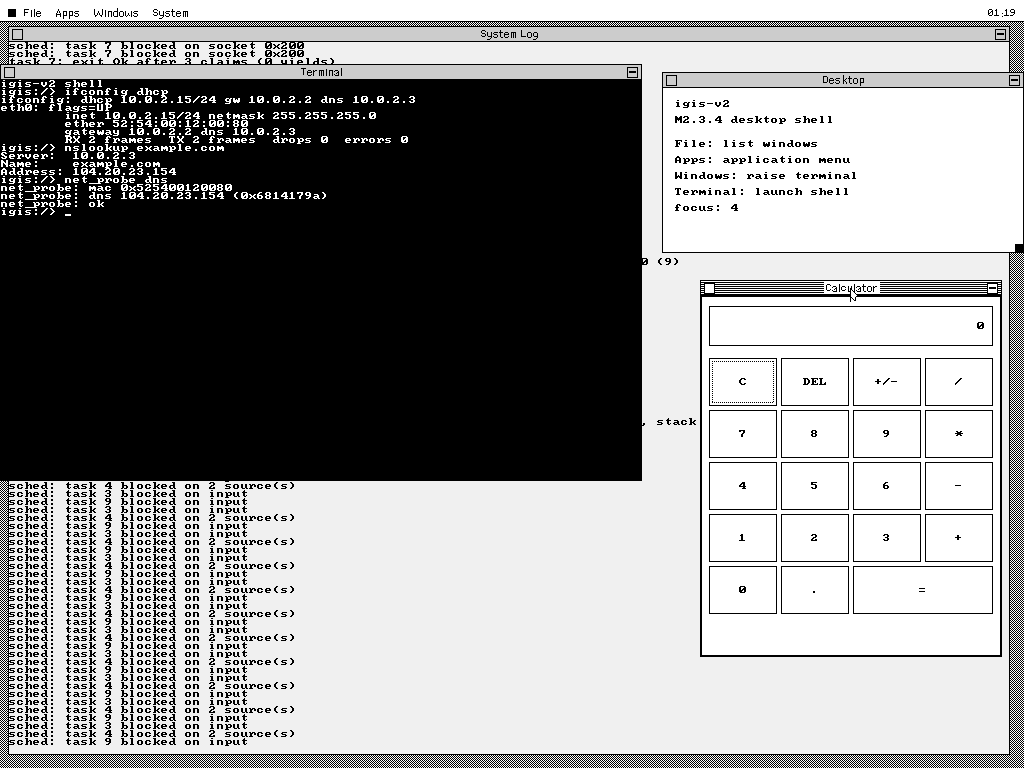
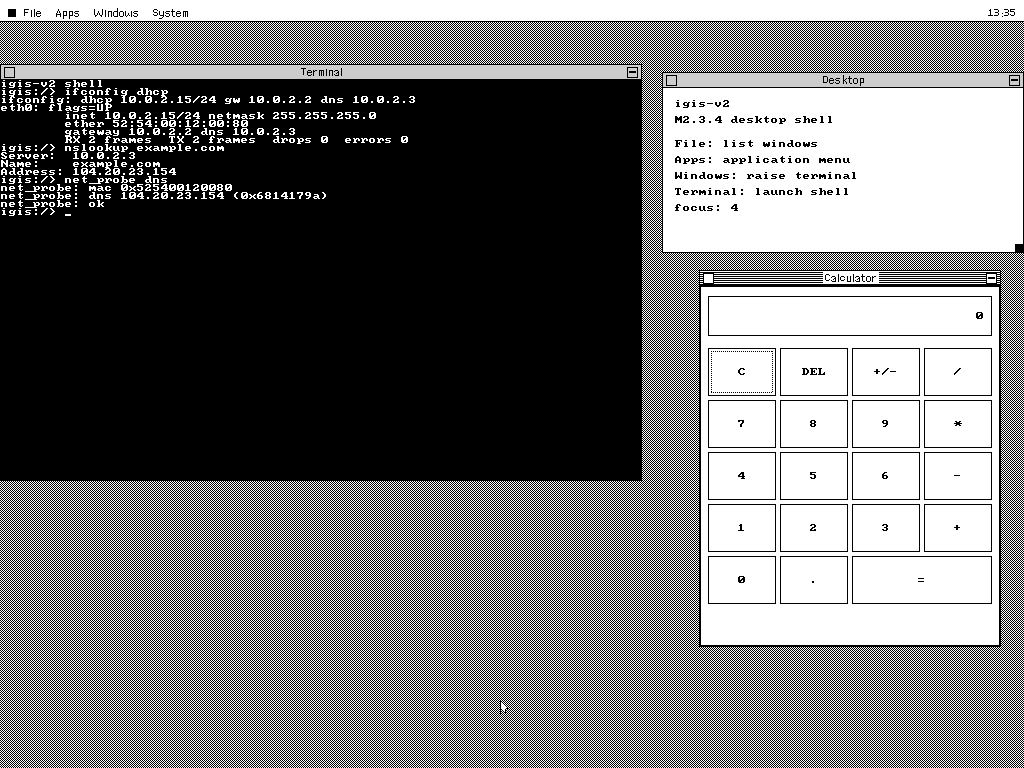
docs: refresh the README screenshots from the current desktop
All seven 1024x768 captures were re-taken on the product image from the M16
tree. The old images showed the full-screen System Log as the background, used
pre-[#Utilities] Apps rows (so a header or the wrong app answered a click), and
carried a stale "M2-M14 / 634 tests" status line.

The harness now derives every frame, close box and hide box from the sample
geometry (content = window_open(x, y) + (1, 16), frame = content + (2, 17)),
computes the Apps rows from the 22-pixel bar and 16-pixel rows (Calculator 1,
Clock 2, Widgets 3, Editor 8, Browser 9, Terminal 11), minimizes the kernel
System Log through its hide box so the background is the service desktop
pattern, parks the pointer in the empty corner before each capture, and keeps
the terminal fully behind the 762x577 Widgets gallery.

Checked without viewing the images: 1024x768, no 0xF0F0F0 log paper, the bar
border, each expected frame border at its computed coordinate, the editor's
four syntax palette colours, the browser's accent selection, and pairwise
distinct captures. README status is now specs 0001-0026 / M2-M16 / 637 host
tests.

Changed region(s): [[0.0, 0.0312, 1.0, 1.0]]

diff --git a/scripts/readme_screenshots_qmp.py b/scripts/readme_screenshots_qmp.py
@@ -2,9 +2,22 @@
 """Compose the README screenshots on the boot desktop, top bar included.
 
 Every image is a full 1024x768 QEMU framebuffer capture with the desktop
-shell's menu bar visible; nothing is cropped.
+shell's menu bar visible; nothing is cropped and nothing is drawn by the
+harness. Window geometry comes from the sample sources, not from constants
+guessed at capture time:
 
-    docs/screenshots/desktop.png   terminal + Desktop panel + Calculator
+    content = window_open(x, y, w, h) + (1, 16)
+    frame   = content - (1, 16) and content + (2, 17)
+    close   = (frame.x + 9, frame.y + 8)          (11x11 box at frame + (4, 3))
+    hide    = (frame.x + frame.w - 10, frame.y + 8) (11x11 box at the right end)
+
+The Apps pull-down opens at `y = 22` (the bar height) with 16-pixel rows, so
+row `i` is clicked at `y = 31 + 16 * i`; the `#` section headers are not
+selectable. The System Log is a full-screen kernel window under everything, so
+the harness minimizes it first (its hide box is free at boot); the uncovered
+area is then the service desktop pattern.
+
+    docs/screenshots/desktop.png   terminal + Calculator + Desktop panel
     docs/screenshots/apps.png      Apps pull-down over that composition
     docs/screenshots/network.png   the terminal network commands
     docs/screenshots/widgets.png   the composed Widgets gallery
@@ -14,8 +27,8 @@ shell's menu bar visible; nothing is cropped.
 
 The terminal runs `ifconfig dhcp`, `nslookup example.com` and `net_probe dns`.
 Widgets needs its `shot` gallery, so it is started from the terminal and the
-terminal is arranged fully behind its 760x560 frame; the terminal is then
-minimized before the single-app captures.
+terminal is arranged fully behind its 762x577 frame; the terminal is then
+closed before the single-app captures, which all launch from Apps.
 
 Usage:
     cargo xtask image
@@ -38,14 +51,37 @@ from tablet_qmp import Qmp, Serial, apps_drive  # noqa: E402
 ROOT = os.path.dirname(os.path.dirname(os.path.abspath(__file__)))
 OUT_DIR = os.path.join(ROOT, "docs", "screenshots")
 
+# The bar is 22 px tall and every pull-down row is 16 px with a 1 px border.
 APPS_LABEL = (64, 10)
-CALCULATOR_ROW = (140, 47)
-CLOCK_ROW = (140, 63)
-EDITOR_ROW = (140, 143)
-BROWSER_ROW = (140, 159)
-TERMINAL_ROW = (140, 191)
+MENU_X = 140
 OUTSIDE = (500, 700)
 PROMPT = r"(?:shell> |igis:/[^>]*> )"
+
+
+def menu_row(index):
+    return (MENU_X, 31 + 16 * index)
+
+
+# Apps item order (`samples/apps/base/desktop_shell.ig`, spec 0012 D20):
+#  0 #Accessories  1 Calculator   2 Clock        3 Widgets   4 Image Viewer
+#  5 #Games        6 Minesweeper  7 #Productivity 8 Editor   9 File Browser
+# 10 #Utilities   11 Terminal    12 Settings
+ROW_CALCULATOR = 1
+ROW_CLOCK = 2
+ROW_WIDGETS = 3
+ROW_EDITOR = 8
+ROW_BROWSER = 9
+ROW_TERMINAL = 11
+
+# `window_open` arguments (frame origin and content size), from each sample.
+LOG = (8, 26, 1002, 729)          # kernel System Log, content + chrome, opened bottom
+PANEL = (600, 72, 362, 181)
+TERMINAL = (24, 64, 642, 417)
+CALCULATOR = (180, 100, 302, 377)
+WIDGETS = (64, 64, 762, 577)
+CLOCK = (340, 130, 262, 297)
+BROWSER = (160, 90, 682, 497)
+EDITOR = (180, 90, 642, 497)
 
 
 def hid_axis(pixel, extent):
@@ -53,6 +89,18 @@ def hid_axis(pixel, extent):
         return 0
     pixel = min(max(pixel, 0), extent - 1)
     return (pixel * 0x7FFF + (extent - 1) // 2) // (extent - 1)
+
+
+def close_point(frame):
+    return (frame[0] + 9, frame[1] + 8)
+
+
+def hide_point(frame):
+    return (frame[0] + frame[2] - 10, frame[1] + 8)
+
+
+def title_point(frame):
+    return (frame[0] + frame[2] // 2, frame[1] + 8)
 
 
 def click(qmp, x, y, width, height):
@@ -86,6 +134,12 @@ def drag(qmp, start, end, width, height):
     time.sleep(1.0)
 
 
+def park(qmp, width, height):
+    """Move the pointer to the empty desktop corner before a capture."""
+    qmp.send_absolute(hid_axis(OUTSIDE[0], width), hid_axis(OUTSIDE[1], height), left=False)
+    time.sleep(0.25)
+
+
 def type_text(process, text):
     for byte in text.encode():
         process.stdin.write(bytes([byte]))
@@ -117,14 +171,17 @@ def capture(qmp, path):
 
 def launch(qmp, serial, width, height, row, spawn, cursor):
     click(qmp, *APPS_LABEL, width, height)
-    _, cursor = serial.wait_for(r"desktop_shell: apps menu open", timeout=30, start=cursor)
-    click(qmp, *row, width, height)
-    _, cursor = serial.wait_for(spawn, timeout=60, start=cursor)
+    _, cursor = serial.wait_for(
+        r"desktop_shell: apps menu open", timeout=30, start=cursor
+    )
+    click(qmp, *menu_row(row), width, height)
+    _, cursor = serial.wait_for(spawn, timeout=90, start=cursor)
     time.sleep(1.0)
     return cursor
 
 
-def shot(qmp, path):
+def shot(qmp, path, width, height):
+    park(qmp, width, height)
     capture(qmp, path)
     print(f"[readme] {path}")
 
@@ -184,104 +241,145 @@ def run(args):
         serial.wait_for(r"desktop_shell: ready", timeout=args.timeout)
         graphics, _ = serial.wait_for(r"graphics: (\d+)x(\d+)", timeout=10)
         width, height = int(graphics.group(1)), int(graphics.group(2))
+        if (width, height) != (1024, 768):
+            sys.exit(f"[readme] unexpected mode {width}x{height}, want 1024x768")
         print(f"[readme] screen {width}x{height}, cores {args.cores}")
         time.sleep(0.6)
+        cursor = 0
 
-        # Move the shell's Desktop panel to the right edge.
-        drag(qmp, (750, 80), (812, 80), width, height)
+        # The System Log is the bottom full-screen kernel window; minimize it so
+        # the uncovered pixels are the desktop pattern rather than log text.
+        click(qmp, *hide_point(LOG), width, height)
+        time.sleep(0.4)
+
+        # Desktop panel to the right edge; the service clamps the frame to the
+        # screen, so it ends at x = 662 and leaves the left side to the terminal.
+        drag(qmp, title_point(PANEL), (843, 80), width, height)
+        panel = (662, 72, PANEL[2], PANEL[3])
 
         # Terminal at the left edge, running the network commands.
         cursor = launch(
-            qmp, serial, width, height, TERMINAL_ROW,
-            r"repl: apps/utilities/terminal: spawned as task", 0,
+            qmp,
+            serial,
+            width,
+            height,
+            ROW_TERMINAL,
+            r"repl: apps/utilities/terminal: spawned as task",
+            cursor,
         )
         _, cursor = serial.wait_for(
             r"repl: base/shell: spawned as task", timeout=30, start=cursor
         )
         _, cursor = serial.wait_for(PROMPT, timeout=30, start=cursor)
-        drag(qmp, (174, 72), (150, 72), width, height)
+        drag(qmp, title_point(TERMINAL), (title_point(TERMINAL)[0] - 24, 72), width, height)
+        terminal = (0, 64, TERMINAL[2], TERMINAL[3])
 
         print("[readme] terminal: ifconfig dhcp, nslookup, net_probe dns")
         type_text(process, "ifconfig dhcp\n")
         _, cursor = serial.wait_for(
-            r"ifconfig: dhcp 10\.0\.2\.15/24", timeout=60, start=cursor
+            r"ifconfig: dhcp 10\.0\.2\.15/24", timeout=90, start=cursor
         )
         type_text(process, "nslookup example.com\n")
-        _, cursor = serial.wait_for(r"Address:", timeout=60, start=cursor)
+        _, cursor = serial.wait_for(r"Address:", timeout=90, start=cursor)
         type_text(process, "net_probe dns\n")
-        _, cursor = serial.wait_for(r"net_probe: ok", timeout=60, start=cursor)
+        _, cursor = serial.wait_for(r"net_probe: ok", timeout=90, start=cursor)
         _, cursor = serial.wait_for(PROMPT, timeout=30, start=cursor)
         time.sleep(0.5)
 
         # Calculator under the Desktop panel.
         cursor = launch(
-            qmp, serial, width, height, CALCULATOR_ROW,
-            r"repl: apps/accessories/calculator: spawned as task", cursor,
+            qmp,
+            serial,
+            width,
+            height,
+            ROW_CALCULATOR,
+            r"repl: apps/accessories/calculator: spawned as task",
+            cursor,
         )
-        drag(qmp, (330, 108), (850, 288), width, height)
+        drag(qmp, title_point(CALCULATOR), (850, 278), width, height)
+        calculator = (699, 270, CALCULATOR[2], CALCULATOR[3])
         time.sleep(0.8)
-        shot(qmp, os.path.join(OUT_DIR, "desktop.png"))
+        shot(qmp, os.path.join(OUT_DIR, "desktop.png"), width, height)
 
         # Apps pull-down over that composition.
         click(qmp, *APPS_LABEL, width, height)
-        _, cursor = serial.wait_for(r"desktop_shell: apps menu open", timeout=30, start=cursor)
+        _, cursor = serial.wait_for(
+            r"desktop_shell: apps menu open", timeout=30, start=cursor
+        )
         time.sleep(0.3)
-        shot(qmp, os.path.join(OUT_DIR, "apps.png"))
+        shot(qmp, os.path.join(OUT_DIR, "apps.png"), width, height)
         click(qmp, *OUTSIDE, width, height)
         _, cursor = serial.wait_for(
             r"desktop_shell: apps menu closed", timeout=30, start=cursor
         )
 
-        # Close Calculator and the Desktop panel; keep the terminal and log.
-        click(qmp, 709, 288, width, height)
-        click(qmp, 671, 80, width, height)
+        # Close Calculator and the Desktop panel; keep the terminal alone.
+        click(qmp, *close_point(calculator), width, height)
+        time.sleep(0.5)
+        click(qmp, *close_point(panel), width, height)
         _, cursor = serial.wait_for(
             r"desktop_shell: desktop window closed", timeout=30, start=cursor
         )
         time.sleep(0.6)
-        shot(qmp, os.path.join(OUT_DIR, "network.png"))
+        shot(qmp, os.path.join(OUT_DIR, "network.png"), width, height)
 
-        # Widgets: arrange the terminal fully behind the 760x560 gallery.
-        drag(qmp, (150, 72), (230, 88), width, height)
+        # Widgets: put the terminal fully behind the 762x577 gallery, run the
+        # `shot` mode from the terminal's shell, then close the terminal.
+        drag(qmp, title_point(terminal), (421, 108), width, height)
+        terminal = (100, 100, TERMINAL[2], TERMINAL[3])
         type_text(process, "run apps/accessories/widgets shot\n")
-        _, cursor = serial.wait_for(r"widgets: ready", timeout=60, start=cursor)
+        _, cursor = serial.wait_for(r"widgets: ready", timeout=90, start=cursor)
         time.sleep(0.3)
-        shot(qmp, os.path.join(OUT_DIR, "widgets.png"))
+        shot(qmp, os.path.join(OUT_DIR, "widgets.png"), width, height)
         _, cursor = serial.wait_for(r"widgets: done", timeout=30, start=cursor)
         _, cursor = serial.wait_for(PROMPT, timeout=30, start=cursor)
-
-        # Hide the terminal; its hide box is now on top and in the clear.
-        click(qmp, 712, 88, width, height)
-        time.sleep(0.5)
+        click(qmp, *close_point(terminal), width, height)
+        time.sleep(0.6)
 
         # Clock.
         cursor = launch(
-            qmp, serial, width, height, CLOCK_ROW,
-            r"repl: apps/accessories/clock_window: spawned as task", cursor,
+            qmp,
+            serial,
+            width,
+            height,
+            ROW_CLOCK,
+            r"repl: apps/accessories/clock_window: spawned as task",
+            cursor,
         )
         time.sleep(1.2)
-        shot(qmp, os.path.join(OUT_DIR, "clock.png"))
-        click(qmp, 350, 138, width, height)
-        time.sleep(0.5)
+        shot(qmp, os.path.join(OUT_DIR, "clock.png"), width, height)
+        click(qmp, *close_point(CLOCK), width, height)
+        time.sleep(0.6)
 
         # File Browser.
         cursor = launch(
-            qmp, serial, width, height, BROWSER_ROW,
-            r"repl: apps/productivity/browser: spawned as task", cursor,
+            qmp,
+            serial,
+            width,
+            height,
+            ROW_BROWSER,
+            r"repl: apps/productivity/browser: spawned as task",
+            cursor,
         )
-        time.sleep(1.8)
-        shot(qmp, os.path.join(OUT_DIR, "browser.png"))
-        click(qmp, 170, 99, width, height)
-        time.sleep(0.5)
+        time.sleep(2.0)
+        shot(qmp, os.path.join(OUT_DIR, "browser.png"), width, height)
+        click(qmp, *close_point(BROWSER), width, height)
+        time.sleep(0.6)
 
         # Editor.
         cursor = launch(
-            qmp, serial, width, height, EDITOR_ROW,
-            r"repl: apps/productivity/editor: spawned as task", cursor,
+            qmp,
+            serial,
+            width,
+            height,
+            ROW_EDITOR,
+            r"repl: apps/productivity/editor: spawned as task",
+            cursor,
         )
-        time.sleep(1.8)
-        shot(qmp, os.path.join(OUT_DIR, "editor.png"))
-        click(qmp, 190, 99, width, height)
+        time.sleep(2.0)
+        shot(qmp, os.path.join(OUT_DIR, "editor.png"), width, height)
+        click(qmp, *close_point(EDITOR), width, height)
+        time.sleep(0.5)
         print("[readme] done")
         return 0
     finally:
@@ -301,7 +399,7 @@ def main():
     parser = argparse.ArgumentParser(description=__doc__)
     parser.add_argument("iso", help="path to build/igis.iso")
     parser.add_argument("--cores", default="4")
-    parser.add_argument("--timeout", type=float, default=90.0)
+    parser.add_argument("--timeout", type=float, default=120.0)
     args = parser.parse_args()
     return run(args)
 

diff --git a/docs/HISTORY.md b/docs/HISTORY.md
@@ -1260,3 +1260,4 @@ max 21 ms`, counters `17/23 -> 77/113` (virtio) and `9/12 -> 69/102`
 | 2026-11-25 | Composition and surface model accepted (spec 0026, ADR 0060; specs 0009/0010/0011/0012 amended; ADR 0024's canvas clause, 0045, 0046 and 0055 superseded; user request "ekran tarafında double buffering ... kernel tamamen ekrana ne çizileceğine ait bir memory alanı tutabilir mi" and "doğru olanı yap, hafıza sorunumuz yok"). The kernel already kept one full-screen shadow; the defects came from clients drawing into it. The accepted model retains a rectangle-sized canvas per surface (window or plane), gives drawing/`get_pixel`/window-addressed input window-local coordinates, makes the compositor the only writer of the shadow (desktop pattern → windows bottom-to-top, painter's order → planes → cursor), and replaces the erase/`covers_from` repair, the move snapshot, the full-repaint flag and the persistent region claim with recomposition and planes. Six builtins (92–97), no opcode, ABI v1 stays 75; no canvas budget constant. Docs only in this session; M16.2–M16.7 slice the implementation in `PLAN.md`. |
 | 2026-11-26 | M16 implemented: the composition model lands (spec 0026, ADR 0060). `gfx` gains a `Surf` surface view and `Canvas`; every window owns a content-sized canvas from the frame allocator (no budget constant; `Full` on exhaustion); builtin 92 `window_begin` opens a per-window draw scope (implicit for a new window, `0` clears it); drawing routes to the caller's canvas and is `Invalid` with no scope; the window service's compositor is the only writer of the shadow (damage rectangles → desktop pattern → windows bottom-to-top → planes → cursor) and replaces the erase/`covers_from` repair, the move snapshot, the visible-parts subtraction and the full-repaint flag; the console paints its own canvas. Builtins 93–96 add planes (above windows) and 97 `work_area_reserve`; the desktop shell's menu bar, pull-downs and halt screen are planes, the region claim (60/61) is deleted and its press rule becomes the plane rule, and window frames clamp below the 22-pixel bar strip. `syslib.present` recomposites. The corpus draws inside scopes. Verified pixel-identical to the old image except the intended 22-pixel work-area shift: the visual golden was re-baselined once (`686d0330…de52754c` → `c9546f45…79fbc65e`), 637 host tests, `desktop_shell check`, `apps_menu`, `minimize`, `drag_content`, `window_repaint` QMP, `-smp 4`/`-smp 1`. Client coordinates stay absolute (M17). |
 | 2026-11-26 | M16.8 deferred scrollbar drag (spec 0013 browser/editor, spec 0018 dialog; user request "scrollbar önce çekilsin, mouse scrollbar'ı release ettiğinde scrollbar uygulamaya mevcut konumunu bildirsin, uygulama oraya gitsin. aktif scroll çünkü ağır içerikte crashe yol açıyor"). The three draggable scrollbars (editor, browser, `/lib` file dialog) no longer move the content during a held drag. A press records a `scroll_preview`; held primary-button moves map the pointer onto the preview over the travel and redraw the strip into the retained canvas, then `syslib.present(scroll_x, scroll_y, ScrollW, BodyH)` recomposites only that rectangle from the surface stack (spec 0026 C7). `top`/`top_line`, the list/document rows and the selection/caret stay fixed until the release (or a move that lost the button) applies the preview once and repaints one frame. Track clicks and keys remain immediate. The editor's `thumb_metrics`/`drag_total` keep the `stdlib.ui_scrollbar` geometry and cache the line count at the press, so a drag step never rescans a 128 KiB document. Proof: `editor check` and `browser check` assert mid-drag that the view field is unchanged while the strip pixels already moved; `scripts/editor_scroll_qmp.py` captures during the hold (text region 0 px, thumb strip moved, release 12,575 px, `task 5: exit Ok` after 668/666 claims, no `BudgetExceeded`) on `-smp 4`/`-smp 1`; `scripts/file_dialog_qmp.py` drags the dialog's own thumb in `base` (88 entries) and prints held rows 0 px, strip 240 px, release rows 3,844 px. No opcode, builtin, `Host`, `stdlib` or kernel change; ABI v1 stays 75; 637 host tests (two pre-existing large-stack `langhost` tests need `RUST_MIN_STACK=16777216` here, as recorded at M15.2). |
+| 2026-11-26 | README screenshots refreshed (user request "README içindeki görselleri yenileyebilir misin? ... temiz yeni görseller koyalım"). All seven `docs/screenshots/*.png` were re-captured at 1024×768 on the product image from the M16 tree. The harness now derives every frame, close box and hide box from the sample geometry (`content = window_open(x, y) + (1, 16)`, `frame = content + (2, 17)`, close at `frame + (9, 8)`, hide at `frame.x + frame.w - 10`), computes the Apps rows from the 22-pixel bar and 16-pixel row height (Calculator 1, Clock 2, Widgets 3, Editor 8, Browser 9, Terminal 11; the previous constants still pointed at the pre-`#Utilities` row layout and clicked headers/wrong apps), and parks the pointer in the empty desktop corner before each capture. The full-screen kernel System Log is minimized first through its hide box, so the uncovered pixels are the service desktop pattern (the old images showed the log's 0xF0F0F0 paper everywhere). `desktop.png` is now the terminal (network commands) + Calculator + Desktop panel in a non-overlapping composition; `network.png` is the terminal alone; `widgets.png` runs the `shot` gallery from the terminal with the terminal fully behind its 762×577 frame. Verified programmatically: every image is 1024×768, no 0xF0F0F0 log paper remains, the bar border is present, the expected window frames/borders are at the computed coordinates, the editor has all four syntax palette colours and the browser the accent selection, and the images are pairwise distinct. README's stale "M2–M14 / 634 tests / specs 0001–0024" status line was updated to M2–M16 / 637 / 0001–0026. No kernel/ABI change. |

diff --git a/README.md b/README.md
@@ -6,7 +6,7 @@ general personal system built on the same thesis: the kernel is a language runti
 owns the machine, applications are source text compiled in the kernel, and everything runs
 at ring 0 in one address space.
 
-![igis-v2 desktop: dark terminal, calculator and clock](docs/screenshots/desktop.png)
+![igis-v2 desktop: terminal, calculator and desktop panel](docs/screenshots/desktop.png)
 
 *Real QEMU framebuffer. The terminal is running `ifconfig dhcp`, `nslookup example.com`
 and `net_probe dns`; Calculator is an ordinary source application, and the Desktop panel
@@ -40,10 +40,11 @@ is pinned ([ADR 0011](adr/0011-work-stealing-interpreters.md)). The shell is its
 application: a kernel REPL service compiles it at boot and starts it, and applications
 start others through a `run`/`spawn` request queue ([ADR 0017](adr/0017-repl-spawn-service.md)).
 
-**Status: implementation.** Specs 0001–0024 are accepted; milestones M2–M14 are complete
+**Status: implementation.** Specs 0001–0026 are accepted; milestones M2–M16 are complete
 (desktop, language, filesystems, networking, terminal emulator, runtime display modes,
-PNG/PPM image viewer), 634 host tests pass, and ABI v1 has 75 opcodes. The read-only
-128 MiB image tree carries a full-resolution PPM P6 corpus generated from the tracked
+PNG/PPM image viewer, and the retained-surface composition model), 637 host tests pass, and
+ABI v1 has 75 opcodes. The read-only 128 MiB image tree carries a full-resolution PPM P6
+corpus generated from the tracked
 `samples/image-src` JPEGs (the generated PPMs are not committed; the PNG decoder is
 retained), and `apps/accessories/image_viewer` opens both PNG (Adam7 pass-1) and PPM
 (fixed-stride 1/8 sampling) without a full-image buffer. A Settings application changes the real display
